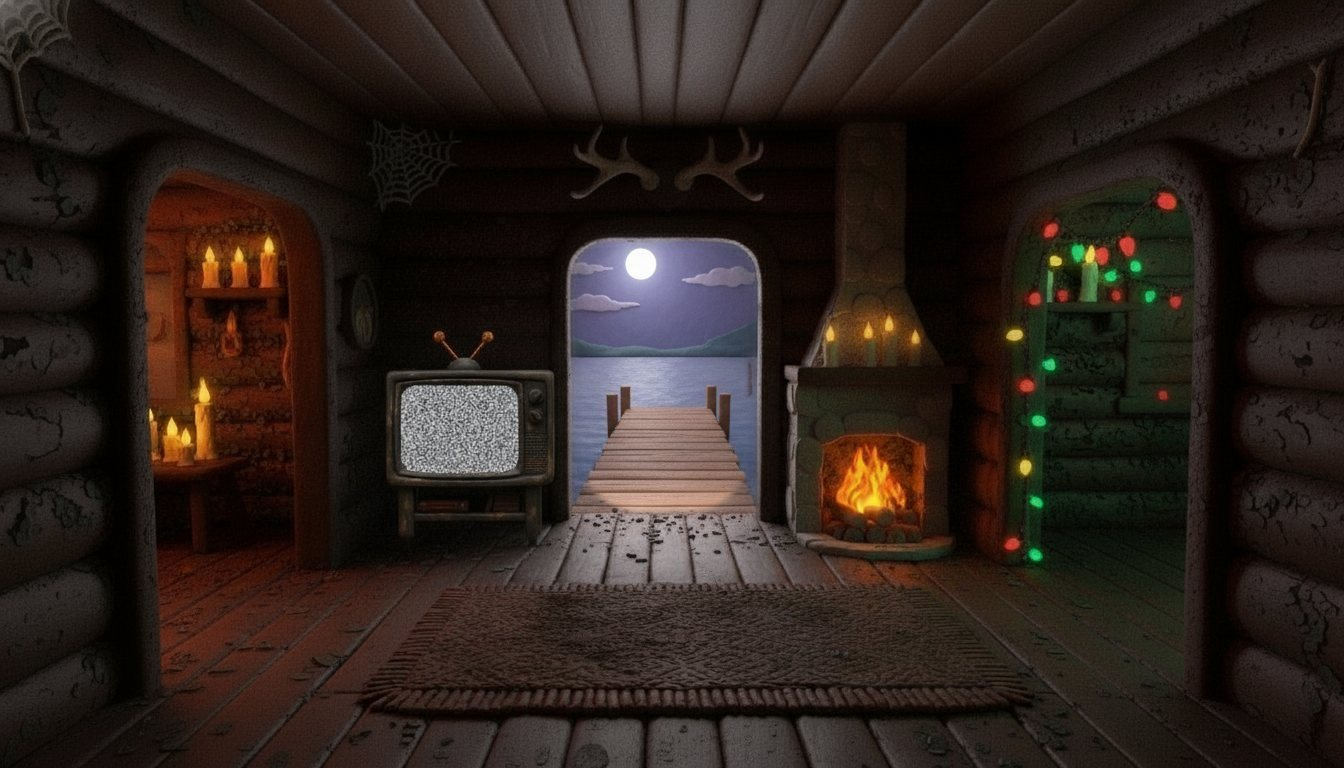
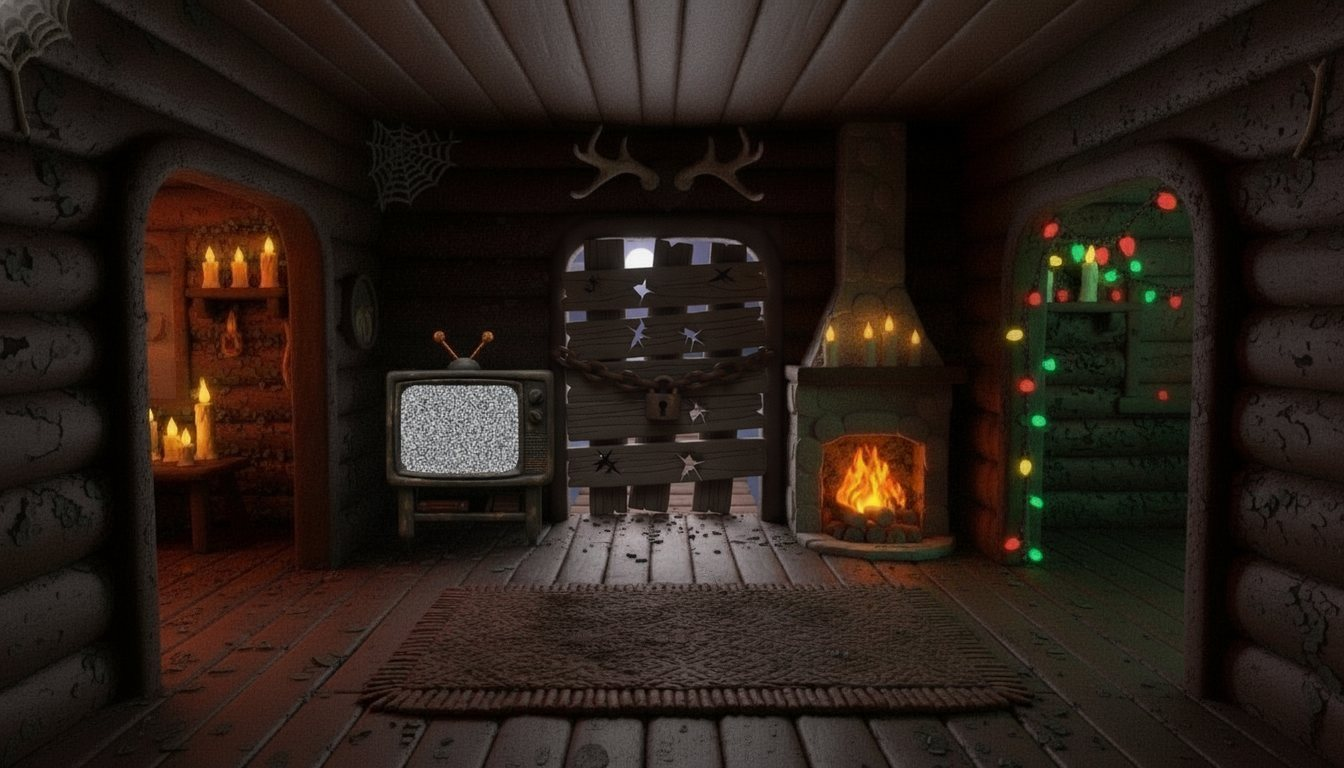
Back door boarded up and hacked at; the lake is now a peek through the broken boards
Claude-Session: https://claude.ai/code/session_017UCt1yh6wM11RSMuh2VTku

Changed region(s): [[0.4062, 0.3125, 0.5938, 0.6875]]

diff --git a/docs/index.html b/docs/index.html
@@ -63,6 +63,10 @@ button{font:inherit;color:inherit}
 .clock small{display:block;font-weight:500;color:var(--ash);letter-spacing:.08em;margin-top:2px}
 
 /* ---------- hotspots ---------- */
+.peekbg{position:absolute;inset:0;transform:scale(1.3) translate(-4%,-14%);transition:transform .25s ease-out;will-change:transform}
+#s-dock:not(.peeking) .peekbg{animation:peekdrift 16s ease-in-out infinite alternate}
+@keyframes peekdrift{0%{transform:scale(1.3) translate(5%,-12%)}35%{transform:scale(1.3) translate(-2%,-16%)}70%{transform:scale(1.3) translate(-10%,-13%)}100%{transform:scale(1.3) translate(-5%,-15%)}}
+.boards{position:absolute;inset:0;width:100%;height:100%;object-fit:cover;z-index:4;pointer-events:none;filter:brightness(.85)}
 .hot{position:absolute;z-index:5;transform:translate(-50%,-50%);appearance:none;border:0;background:none;cursor:pointer;padding:0;display:grid;justify-items:center;gap:8px}
 .hot .ring{width:46px;height:46px;border-radius:50%;border:2px solid var(--glow,var(--candle));box-shadow:0 0 18px var(--glow,var(--candle)),inset 0 0 12px var(--glow,var(--candle));
   animation:pulse 2.2s ease-in-out infinite;position:relative}
@@ -255,7 +259,7 @@ button{font:inherit;color:inherit}
 /* ---------- hint ---------- */
 .hint{position:fixed;z-index:10;left:50%;top:calc(58px + env(safe-area-inset-top,0px));transform:translateX(-50%);font-family:var(--mono);font-size:11px;letter-spacing:.16em;text-transform:uppercase;color:var(--ash);background:rgba(5,4,10,.7);padding:5px 10px;border-radius:3px;pointer-events:none}
 @media (min-width:900px) and (min-aspect-ratio:4/3){.hint{display:none}}
-@media (prefers-reduced-motion:reduce){.scene,.scene.on{transition:opacity .3s}.scene.zoom{transform:none}.hot .ring,.fog{animation:none}}
+@media (prefers-reduced-motion:reduce){.scene,.scene.on{transition:opacity .3s}.scene.zoom{transform:none}.hot .ring,.fog,.peekbg{animation:none!important}}
 </style>
 
 <div class="bar">
@@ -278,7 +282,7 @@ button{font:inherit;color:inherit}
     </section>
 
     <section class="scene" id="s-inside" data-crumb="The cabin" data-back="exterior">
-      <img class="bg" id="insideImg" src="img/inside.jpg?v=6" alt="Inside the clay log cabin, warm with candles and a fire: a candlelit archway on the left, a big clunky 90s TV hissing with static on a stand with a VCR, an archway strung with red and green lights on the right, and the back door open to the dock and lake" width="1344" height="768">
+      <img class="bg" id="insideImg" src="img/inside.jpg?v=7" alt="Inside the clay log cabin, warm with candles and a fire: a candlelit archway on the left, a big clunky 90s TV hissing with static on a stand with a VCR, an archway strung with red and green lights on the right, and the back door open to the dock and lake" width="1344" height="768">
       <button class="secret" id="secret" style="left:44%;top:14%;width:12%;height:12%" aria-label="Antlers"></button>
       <button class="hot left" style="left:16%;top:50%" data-go="peddler" aria-label="Go left to the Peddler"><span class="ring"></span><span class="tag">The Peddler</span></button>
       <button class="hot" style="left:33.5%;top:50%;--glow:#ff9a4d" data-go="tv" aria-label="Go to the old TV"><span class="ring"></span><span class="tag">The TV</span></button>
@@ -314,10 +318,13 @@ button{font:inherit;color:inherit}
     </section>
 
     <section class="scene" id="s-dock" data-crumb="The dock" data-back="inside">
-      <img class="bg" id="dockImg" src="img/dock-night.jpg" alt="Layered clay lake view from the dock: stacked mountains, puffy clay clouds, the dock chained shut with a padlock and a clay sign reading LAKE IS CLOSED" width="1344" height="768">
+      <div class="peekbg" id="peekbg">
+        <img class="bg" id="dockImg" src="img/dock-night.jpg" alt="Peeking through the boarded, hacked-up back door at the layered clay lake view from the dock: stacked mountains, puffy clay clouds, the dock chained shut with a padlock and a clay sign reading LAKE IS CLOSED" width="1344" height="768">
+        <button class="secret" id="padlock" style="left:44%;top:82%;width:11%;height:16%;cursor:pointer" aria-label="The padlock"></button>
+        <div class="fog"></div>
+      </div>
+      <img class="boards" src="img/boards.webp?v=6" alt="" aria-hidden="true">
       <div class="clock" id="dockClock" aria-live="polite"></div>
-      <button class="secret" id="padlock" style="left:44%;top:82%;width:11%;height:16%;cursor:pointer" aria-label="The padlock"></button>
-      <div class="fog"></div>
       <button class="hot" style="left:74%;top:60%;--glow:#9fc6ff" data-card="dock" aria-label="Read the sign"><span class="ring"></span><span class="tag" id="dockTag">Read the sign</span></button>
     </section>
 
@@ -532,6 +539,12 @@ button{font:inherit;color:inherit}
     }
     $('qstart').addEventListener('click',function(){ streak=0; used={}; active=true; $('qintro').hidden=true; $('qplay').hidden=false; next() });
     paint();
+  })();
+  // ---- Peek through the boarded back door: the lake shifts behind the gaps as you move ----
+  (function(){ var sc=$('s-dock'), pb=$('peekbg');
+    sc.addEventListener('pointermove',function(e){ if(e.pointerType!=='mouse') return; var r=sc.getBoundingClientRect(), nx=(e.clientX-r.left)/r.width-.5, ny=(e.clientY-r.top)/r.height-.5;
+      sc.classList.add('peeking'); pb.style.transform='scale(1.3) translate('+(-4-nx*20).toFixed(2)+'%,'+(-14-ny*8).toFixed(2)+'%)' });
+    sc.addEventListener('pointerleave',function(){ sc.classList.remove('peeking'); pb.style.transform='' });
   })();
   function LAKE_OPEN_EARLY(){ return new Date()>=new Date(2027,0,2) }
   // ---- Roll the Bones: a clay hand throws two 3D clay dice that land on the real roll ----
@@ -819,7 +832,7 @@ button{font:inherit;color:inherit}
   // After the holidays (George): the sign comes down and the Clayson sinks back to the bottom until Fri Aug 13, 2027.
   var LAKE_OPEN=new Date()>=new Date(2027,0,2);
   if(LAKE_OPEN){
-    $('insideImg').src='img/inside-open.jpg?v=6';
+    $('insideImg').src='img/inside-open.jpg?v=7';
     $('dockImg').alt='Layered clay lake view from the dock: stacked mountains, puffy clay clouds, calm empty water past the bare dock posts';
     $('dockTag').textContent='Look out'; $('dockTag').parentNode.setAttribute('aria-label','Look out over the lake');
     $('dockLore').textContent='The sign is down and the chain is gone. The holidays are over, and the Clayson has sunk back to the bottom of the lake to rest. He won\u2019t surface again until Friday, August 13, 2027.';

diff --git a/site/world/index.html b/site/world/index.html
@@ -63,6 +63,10 @@ button{font:inherit;color:inherit}
 .clock small{display:block;font-weight:500;color:var(--ash);letter-spacing:.08em;margin-top:2px}
 
 /* ---------- hotspots ---------- */
+.peekbg{position:absolute;inset:0;transform:scale(1.3) translate(-4%,-14%);transition:transform .25s ease-out;will-change:transform}
+#s-dock:not(.peeking) .peekbg{animation:peekdrift 16s ease-in-out infinite alternate}
+@keyframes peekdrift{0%{transform:scale(1.3) translate(5%,-12%)}35%{transform:scale(1.3) translate(-2%,-16%)}70%{transform:scale(1.3) translate(-10%,-13%)}100%{transform:scale(1.3) translate(-5%,-15%)}}
+.boards{position:absolute;inset:0;width:100%;height:100%;object-fit:cover;z-index:4;pointer-events:none;filter:brightness(.85)}
 .hot{position:absolute;z-index:5;transform:translate(-50%,-50%);appearance:none;border:0;background:none;cursor:pointer;padding:0;display:grid;justify-items:center;gap:8px}
 .hot .ring{width:46px;height:46px;border-radius:50%;border:2px solid var(--glow,var(--candle));box-shadow:0 0 18px var(--glow,var(--candle)),inset 0 0 12px var(--glow,var(--candle));
   animation:pulse 2.2s ease-in-out infinite;position:relative}
@@ -255,7 +259,7 @@ button{font:inherit;color:inherit}
 /* ---------- hint ---------- */
 .hint{position:fixed;z-index:10;left:50%;top:calc(58px + env(safe-area-inset-top,0px));transform:translateX(-50%);font-family:var(--mono);font-size:11px;letter-spacing:.16em;text-transform:uppercase;color:var(--ash);background:rgba(5,4,10,.7);padding:5px 10px;border-radius:3px;pointer-events:none}
 @media (min-width:900px) and (min-aspect-ratio:4/3){.hint{display:none}}
-@media (prefers-reduced-motion:reduce){.scene,.scene.on{transition:opacity .3s}.scene.zoom{transform:none}.hot .ring,.fog{animation:none}}
+@media (prefers-reduced-motion:reduce){.scene,.scene.on{transition:opacity .3s}.scene.zoom{transform:none}.hot .ring,.fog,.peekbg{animation:none!important}}
 </style>
 
 <div class="bar">
@@ -278,7 +282,7 @@ button{font:inherit;color:inherit}
     </section>
 
     <section class="scene" id="s-inside" data-crumb="The cabin" data-back="exterior">
-      <img class="bg" id="insideImg" src="img/inside.jpg?v=6" alt="Inside the clay log cabin, warm with candles and a fire: a candlelit archway on the left, a big clunky 90s TV hissing with static on a stand with a VCR, an archway strung with red and green lights on the right, and the back door open to the dock and lake" width="1344" height="768">
+      <img class="bg" id="insideImg" src="img/inside.jpg?v=7" alt="Inside the clay log cabin, warm with candles and a fire: a candlelit archway on the left, a big clunky 90s TV hissing with static on a stand with a VCR, an archway strung with red and green lights on the right, and the back door open to the dock and lake" width="1344" height="768">
       <button class="secret" id="secret" style="left:44%;top:14%;width:12%;height:12%" aria-label="Antlers"></button>
       <button class="hot left" style="left:16%;top:50%" data-go="peddler" aria-label="Go left to the Peddler"><span class="ring"></span><span class="tag">The Peddler</span></button>
       <button class="hot" style="left:33.5%;top:50%;--glow:#ff9a4d" data-go="tv" aria-label="Go to the old TV"><span class="ring"></span><span class="tag">The TV</span></button>
@@ -314,10 +318,13 @@ button{font:inherit;color:inherit}
     </section>
 
     <section class="scene" id="s-dock" data-crumb="The dock" data-back="inside">
-      <img class="bg" id="dockImg" src="img/dock-night.jpg" alt="Layered clay lake view from the dock: stacked mountains, puffy clay clouds, the dock chained shut with a padlock and a clay sign reading LAKE IS CLOSED" width="1344" height="768">
+      <div class="peekbg" id="peekbg">
+        <img class="bg" id="dockImg" src="img/dock-night.jpg" alt="Peeking through the boarded, hacked-up back door at the layered clay lake view from the dock: stacked mountains, puffy clay clouds, the dock chained shut with a padlock and a clay sign reading LAKE IS CLOSED" width="1344" height="768">
+        <button class="secret" id="padlock" style="left:44%;top:82%;width:11%;height:16%;cursor:pointer" aria-label="The padlock"></button>
+        <div class="fog"></div>
+      </div>
+      <img class="boards" src="img/boards.webp?v=6" alt="" aria-hidden="true">
       <div class="clock" id="dockClock" aria-live="polite"></div>
-      <button class="secret" id="padlock" style="left:44%;top:82%;width:11%;height:16%;cursor:pointer" aria-label="The padlock"></button>
-      <div class="fog"></div>
       <button class="hot" style="left:74%;top:60%;--glow:#9fc6ff" data-card="dock" aria-label="Read the sign"><span class="ring"></span><span class="tag" id="dockTag">Read the sign</span></button>
     </section>
 
@@ -532,6 +539,12 @@ button{font:inherit;color:inherit}
     }
     $('qstart').addEventListener('click',function(){ streak=0; used={}; active=true; $('qintro').hidden=true; $('qplay').hidden=false; next() });
     paint();
+  })();
+  // ---- Peek through the boarded back door: the lake shifts behind the gaps as you move ----
+  (function(){ var sc=$('s-dock'), pb=$('peekbg');
+    sc.addEventListener('pointermove',function(e){ if(e.pointerType!=='mouse') return; var r=sc.getBoundingClientRect(), nx=(e.clientX-r.left)/r.width-.5, ny=(e.clientY-r.top)/r.height-.5;
+      sc.classList.add('peeking'); pb.style.transform='scale(1.3) translate('+(-4-nx*20).toFixed(2)+'%,'+(-14-ny*8).toFixed(2)+'%)' });
+    sc.addEventListener('pointerleave',function(){ sc.classList.remove('peeking'); pb.style.transform='' });
   })();
   function LAKE_OPEN_EARLY(){ return new Date()>=new Date(2027,0,2) }
   // ---- Roll the Bones: a clay hand throws two 3D clay dice that land on the real roll ----
@@ -819,7 +832,7 @@ button{font:inherit;color:inherit}
   // After the holidays (George): the sign comes down and the Clayson sinks back to the bottom until Fri Aug 13, 2027.
   var LAKE_OPEN=new Date()>=new Date(2027,0,2);
   if(LAKE_OPEN){
-    $('insideImg').src='img/inside-open.jpg?v=6';
+    $('insideImg').src='img/inside-open.jpg?v=7';
     $('dockImg').alt='Layered clay lake view from the dock: stacked mountains, puffy clay clouds, calm empty water past the bare dock posts';
     $('dockTag').textContent='Look out'; $('dockTag').parentNode.setAttribute('aria-label','Look out over the lake');
     $('dockLore').textContent='The sign is down and the chain is gone. The holidays are over, and the Clayson has sunk back to the bottom of the lake to rest. He won\u2019t surface again until Friday, August 13, 2027.';

diff --git a/site/world/page.html b/site/world/page.html
@@ -58,6 +58,10 @@ button{font:inherit;color:inherit}
 .clock small{display:block;font-weight:500;color:var(--ash);letter-spacing:.08em;margin-top:2px}
 
 /* ---------- hotspots ---------- */
+.peekbg{position:absolute;inset:0;transform:scale(1.3) translate(-4%,-14%);transition:transform .25s ease-out;will-change:transform}
+#s-dock:not(.peeking) .peekbg{animation:peekdrift 16s ease-in-out infinite alternate}
+@keyframes peekdrift{0%{transform:scale(1.3) translate(5%,-12%)}35%{transform:scale(1.3) translate(-2%,-16%)}70%{transform:scale(1.3) translate(-10%,-13%)}100%{transform:scale(1.3) translate(-5%,-15%)}}
+.boards{position:absolute;inset:0;width:100%;height:100%;object-fit:cover;z-index:4;pointer-events:none;filter:brightness(.85)}
 .hot{position:absolute;z-index:5;transform:translate(-50%,-50%);appearance:none;border:0;background:none;cursor:pointer;padding:0;display:grid;justify-items:center;gap:8px}
 .hot .ring{width:46px;height:46px;border-radius:50%;border:2px solid var(--glow,var(--candle));box-shadow:0 0 18px var(--glow,var(--candle)),inset 0 0 12px var(--glow,var(--candle));
   animation:pulse 2.2s ease-in-out infinite;position:relative}
@@ -250,7 +254,7 @@ button{font:inherit;color:inherit}
 /* ---------- hint ---------- */
 .hint{position:fixed;z-index:10;left:50%;top:calc(58px + env(safe-area-inset-top,0px));transform:translateX(-50%);font-family:var(--mono);font-size:11px;letter-spacing:.16em;text-transform:uppercase;color:var(--ash);background:rgba(5,4,10,.7);padding:5px 10px;border-radius:3px;pointer-events:none}
 @media (min-width:900px) and (min-aspect-ratio:4/3){.hint{display:none}}
-@media (prefers-reduced-motion:reduce){.scene,.scene.on{transition:opacity .3s}.scene.zoom{transform:none}.hot .ring,.fog{animation:none}}
+@media (prefers-reduced-motion:reduce){.scene,.scene.on{transition:opacity .3s}.scene.zoom{transform:none}.hot .ring,.fog,.peekbg{animation:none!important}}
 </style>
 
 <div class="bar">
@@ -273,7 +277,7 @@ button{font:inherit;color:inherit}
     </section>
 
     <section class="scene" id="s-inside" data-crumb="The cabin" data-back="exterior">
-      <img class="bg" id="insideImg" src="img/inside.jpg?v=6" alt="Inside the clay log cabin, warm with candles and a fire: a candlelit archway on the left, a big clunky 90s TV hissing with static on a stand with a VCR, an archway strung with red and green lights on the right, and the back door open to the dock and lake" width="1344" height="768">
+      <img class="bg" id="insideImg" src="img/inside.jpg?v=7" alt="Inside the clay log cabin, warm with candles and a fire: a candlelit archway on the left, a big clunky 90s TV hissing with static on a stand with a VCR, an archway strung with red and green lights on the right, and the back door open to the dock and lake" width="1344" height="768">
       <button class="secret" id="secret" style="left:44%;top:14%;width:12%;height:12%" aria-label="Antlers"></button>
       <button class="hot left" style="left:16%;top:50%" data-go="peddler" aria-label="Go left to the Peddler"><span class="ring"></span><span class="tag">The Peddler</span></button>
       <button class="hot" style="left:33.5%;top:50%;--glow:#ff9a4d" data-go="tv" aria-label="Go to the old TV"><span class="ring"></span><span class="tag">The TV</span></button>
@@ -309,10 +313,13 @@ button{font:inherit;color:inherit}
     </section>
 
     <section class="scene" id="s-dock" data-crumb="The dock" data-back="inside">
-      <img class="bg" id="dockImg" src="img/dock-night.jpg" alt="Layered clay lake view from the dock: stacked mountains, puffy clay clouds, the dock chained shut with a padlock and a clay sign reading LAKE IS CLOSED" width="1344" height="768">
+      <div class="peekbg" id="peekbg">
+        <img class="bg" id="dockImg" src="img/dock-night.jpg" alt="Peeking through the boarded, hacked-up back door at the layered clay lake view from the dock: stacked mountains, puffy clay clouds, the dock chained shut with a padlock and a clay sign reading LAKE IS CLOSED" width="1344" height="768">
+        <button class="secret" id="padlock" style="left:44%;top:82%;width:11%;height:16%;cursor:pointer" aria-label="The padlock"></button>
+        <div class="fog"></div>
+      </div>
+      <img class="boards" src="img/boards.webp?v=6" alt="" aria-hidden="true">
       <div class="clock" id="dockClock" aria-live="polite"></div>
-      <button class="secret" id="padlock" style="left:44%;top:82%;width:11%;height:16%;cursor:pointer" aria-label="The padlock"></button>
-      <div class="fog"></div>
       <button class="hot" style="left:74%;top:60%;--glow:#9fc6ff" data-card="dock" aria-label="Read the sign"><span class="ring"></span><span class="tag" id="dockTag">Read the sign</span></button>
     </section>
 
@@ -527,6 +534,12 @@ button{font:inherit;color:inherit}
     }
     $('qstart').addEventListener('click',function(){ streak=0; used={}; active=true; $('qintro').hidden=true; $('qplay').hidden=false; next() });
     paint();
+  })();
+  // ---- Peek through the boarded back door: the lake shifts behind the gaps as you move ----
+  (function(){ var sc=$('s-dock'), pb=$('peekbg');
+    sc.addEventListener('pointermove',function(e){ if(e.pointerType!=='mouse') return; var r=sc.getBoundingClientRect(), nx=(e.clientX-r.left)/r.width-.5, ny=(e.clientY-r.top)/r.height-.5;
+      sc.classList.add('peeking'); pb.style.transform='scale(1.3) translate('+(-4-nx*20).toFixed(2)+'%,'+(-14-ny*8).toFixed(2)+'%)' });
+    sc.addEventListener('pointerleave',function(){ sc.classList.remove('peeking'); pb.style.transform='' });
   })();
   function LAKE_OPEN_EARLY(){ return new Date()>=new Date(2027,0,2) }
   // ---- Roll the Bones: a clay hand throws two 3D clay dice that land on the real roll ----
@@ -814,7 +827,7 @@ button{font:inherit;color:inherit}
   // After the holidays (George): the sign comes down and the Clayson sinks back to the bottom until Fri Aug 13, 2027.
   var LAKE_OPEN=new Date()>=new Date(2027,0,2);
   if(LAKE_OPEN){
-    $('insideImg').src='img/inside-open.jpg?v=6';
+    $('insideImg').src='img/inside-open.jpg?v=7';
     $('dockImg').alt='Layered clay lake view from the dock: stacked mountains, puffy clay clouds, calm empty water past the bare dock posts';
     $('dockTag').textContent='Look out'; $('dockTag').parentNode.setAttribute('aria-label','Look out over the lake');
     $('dockLore').textContent='The sign is down and the chain is gone. The holidays are over, and the Clayson has sunk back to the bottom of the lake to rest. He won\u2019t surface again until Friday, August 13, 2027.';
